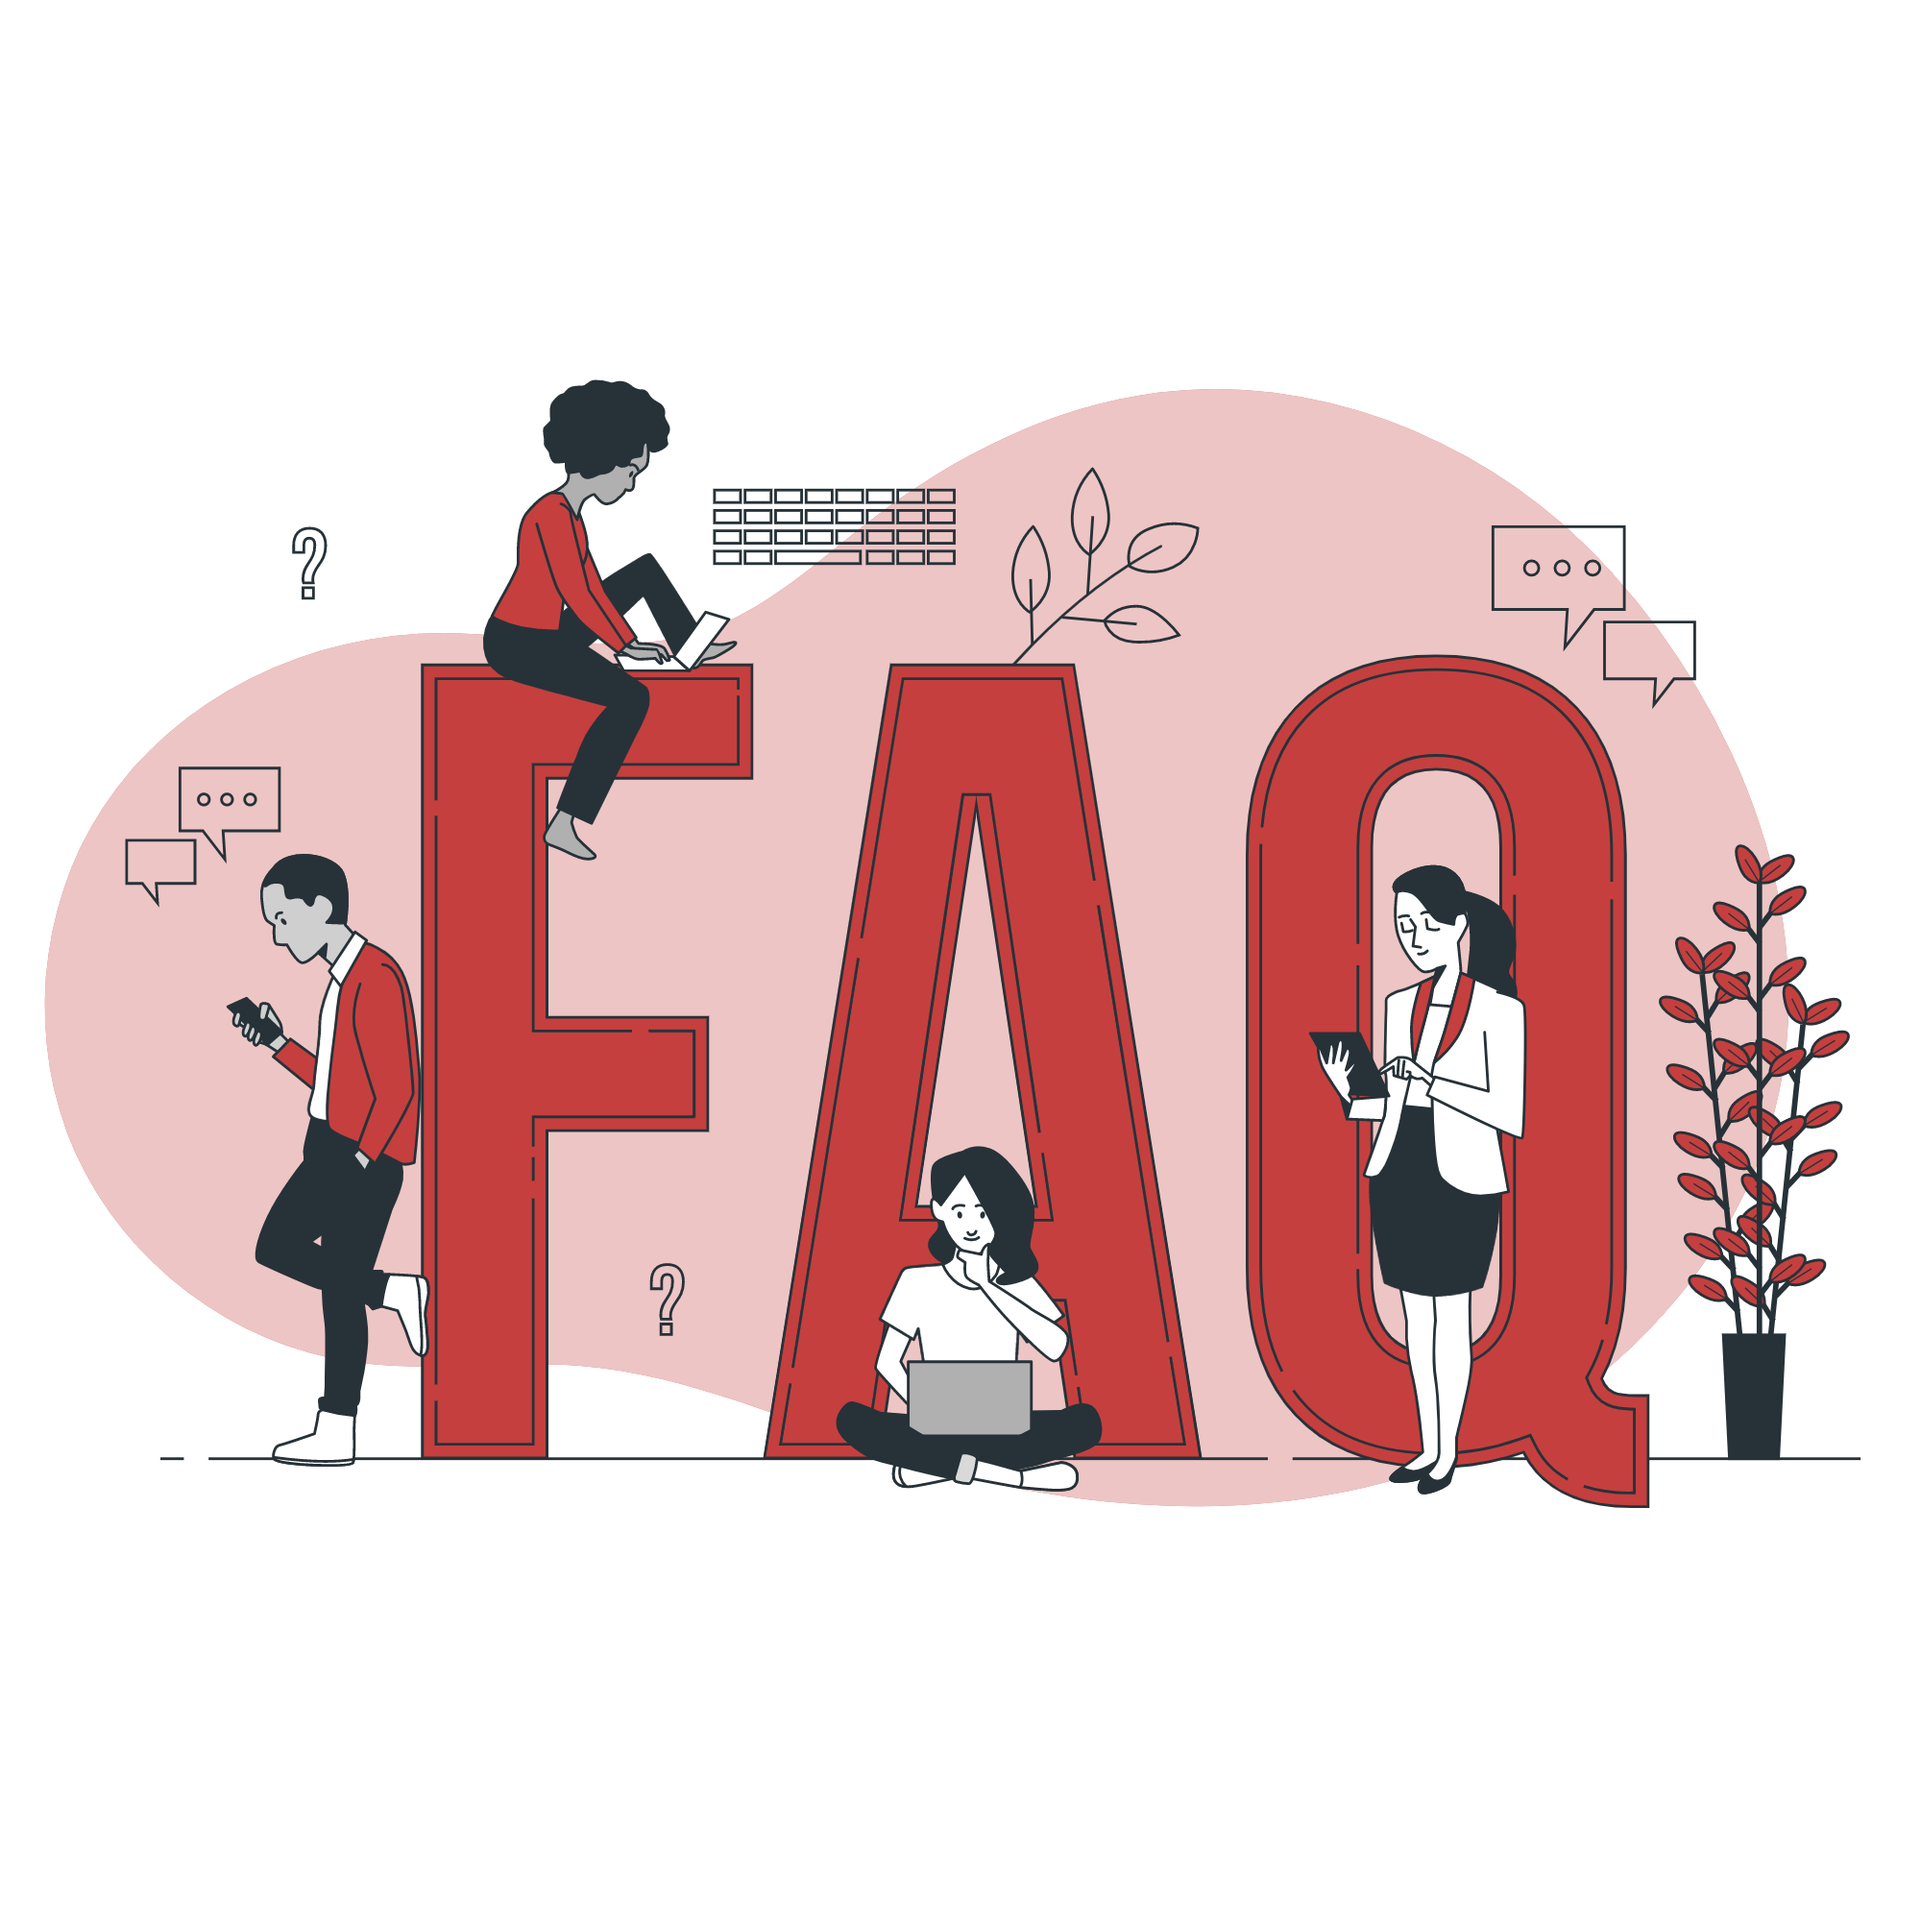
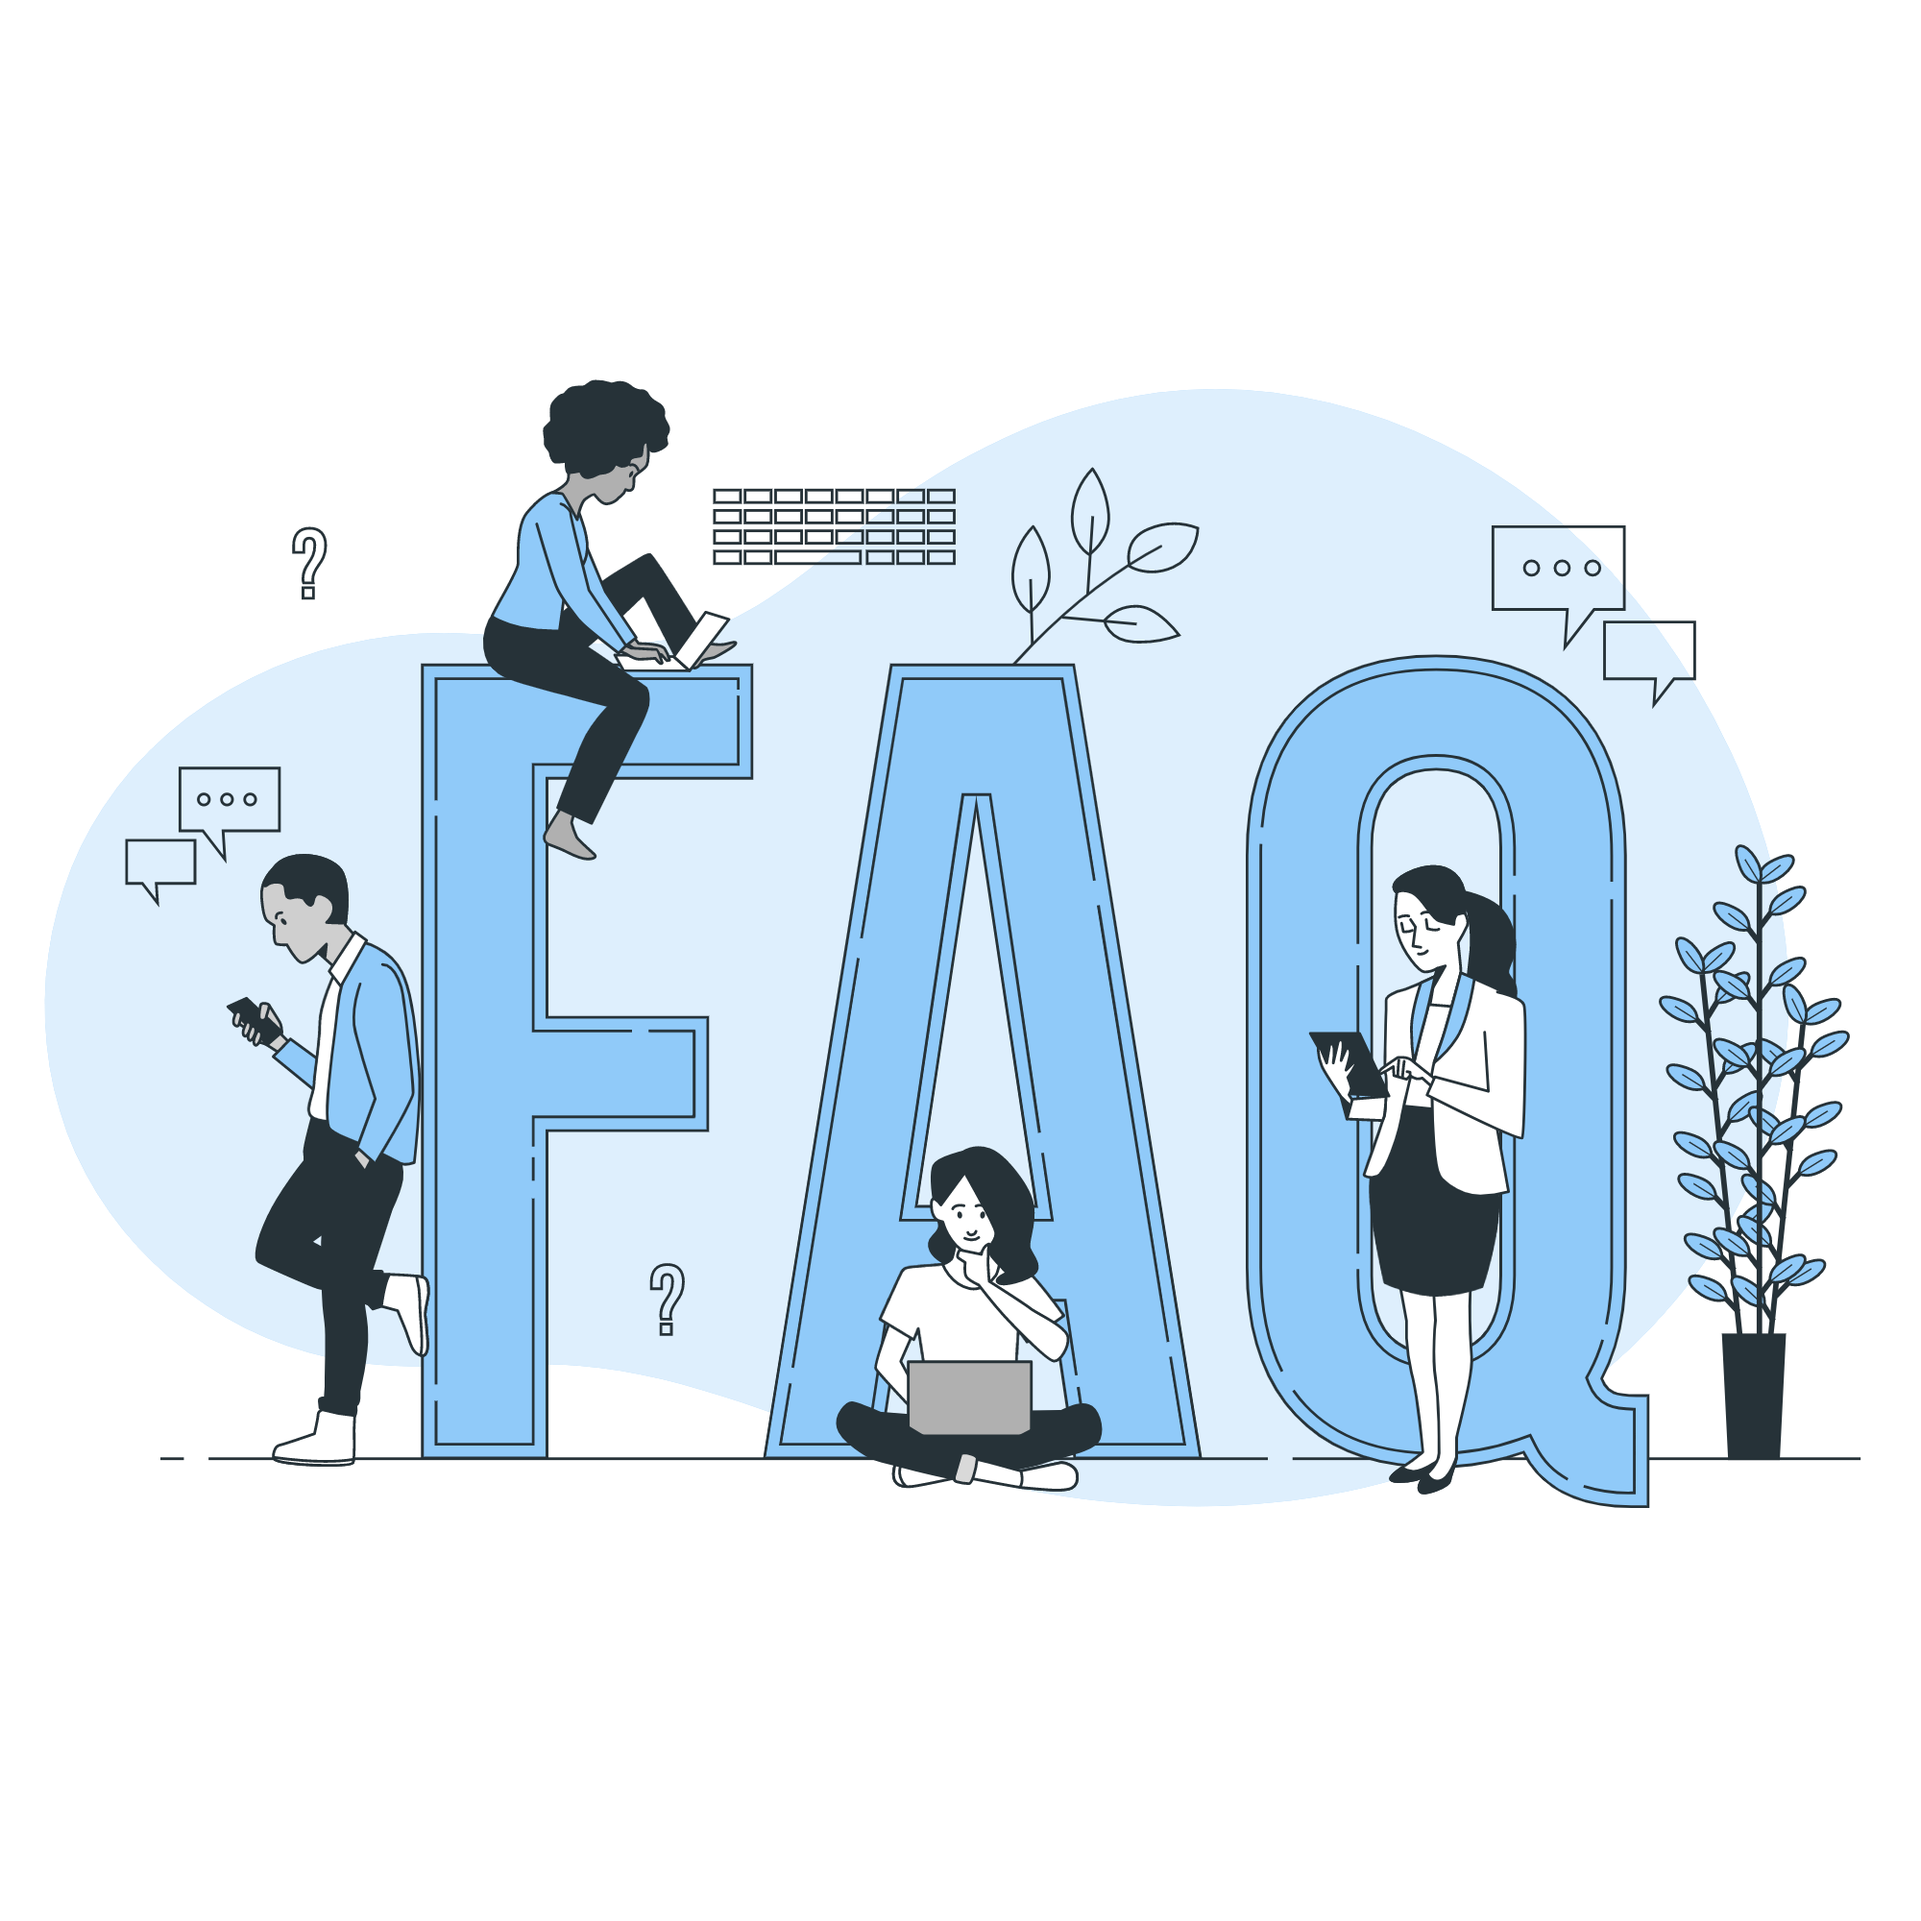
FAQ pic and navbar color change

diff --git a/resources/views/faq.blade.php b/resources/views/faq.blade.php
@@ -20,7 +20,7 @@
 
 <header>
     <!-- NAVBAR-BAR -->
-    <section class="navbar fixed-top navbar-bg">
+    <section class="navbar fixed-top navbar-bg" style="background-color: #0056D2">
         <nav class="navbar navbar-expand-lg w-100 p-0">
             <div class="container">
                 <a class="navbar-brand text-white fs-3" href="#">
@@ -129,29 +129,29 @@
 
                                     <h2><b>Contents</b></h2>
                                     <p>
-                                        <a style="text-decoration:none; color:#ad021c" href="#general">
+                                        <a style="text-decoration:none; color:#0056D2" href="#general">
                                             <h5>General</h5>
                                         </a>
                                     </p>
                                     <p>
-                                        <a style="text-decoration:none; color:#ad021c"
+                                        <a style="text-decoration:none; color:#0056D2"
                                             href="#creating-your-digital-business-cards">
                                             <h5>Creating your digital business cards</h5>
                                         </a>
                                     </p>
                                     <p>
-                                        <a style="text-decoration:none; color:#ad021c"
+                                        <a style="text-decoration:none; color:#0056D2"
                                             href="#sharing-your-digital-business-cards">
                                             <h5>Sharing your digital business cards</h5>
                                         </a>
                                     </p>
                                     <p>
-                                        <a style="text-decoration:none; color:#ad021c" href="#Profile">
+                                        <a style="text-decoration:none; color:#0056D2" href="#Profile">
                                             <h5>Profile</h5>
                                         </a>
                                     </p>
                                     <p>
-                                        <a style="text-decoration:none; color:#ad021c" href="#virtual-backgrounds">
+                                        <a style="text-decoration:none; color:#0056D2" href="#virtual-backgrounds">
                                             <h5>Virtual backgrounds</h5>
                                         </a>
                                     </p>
